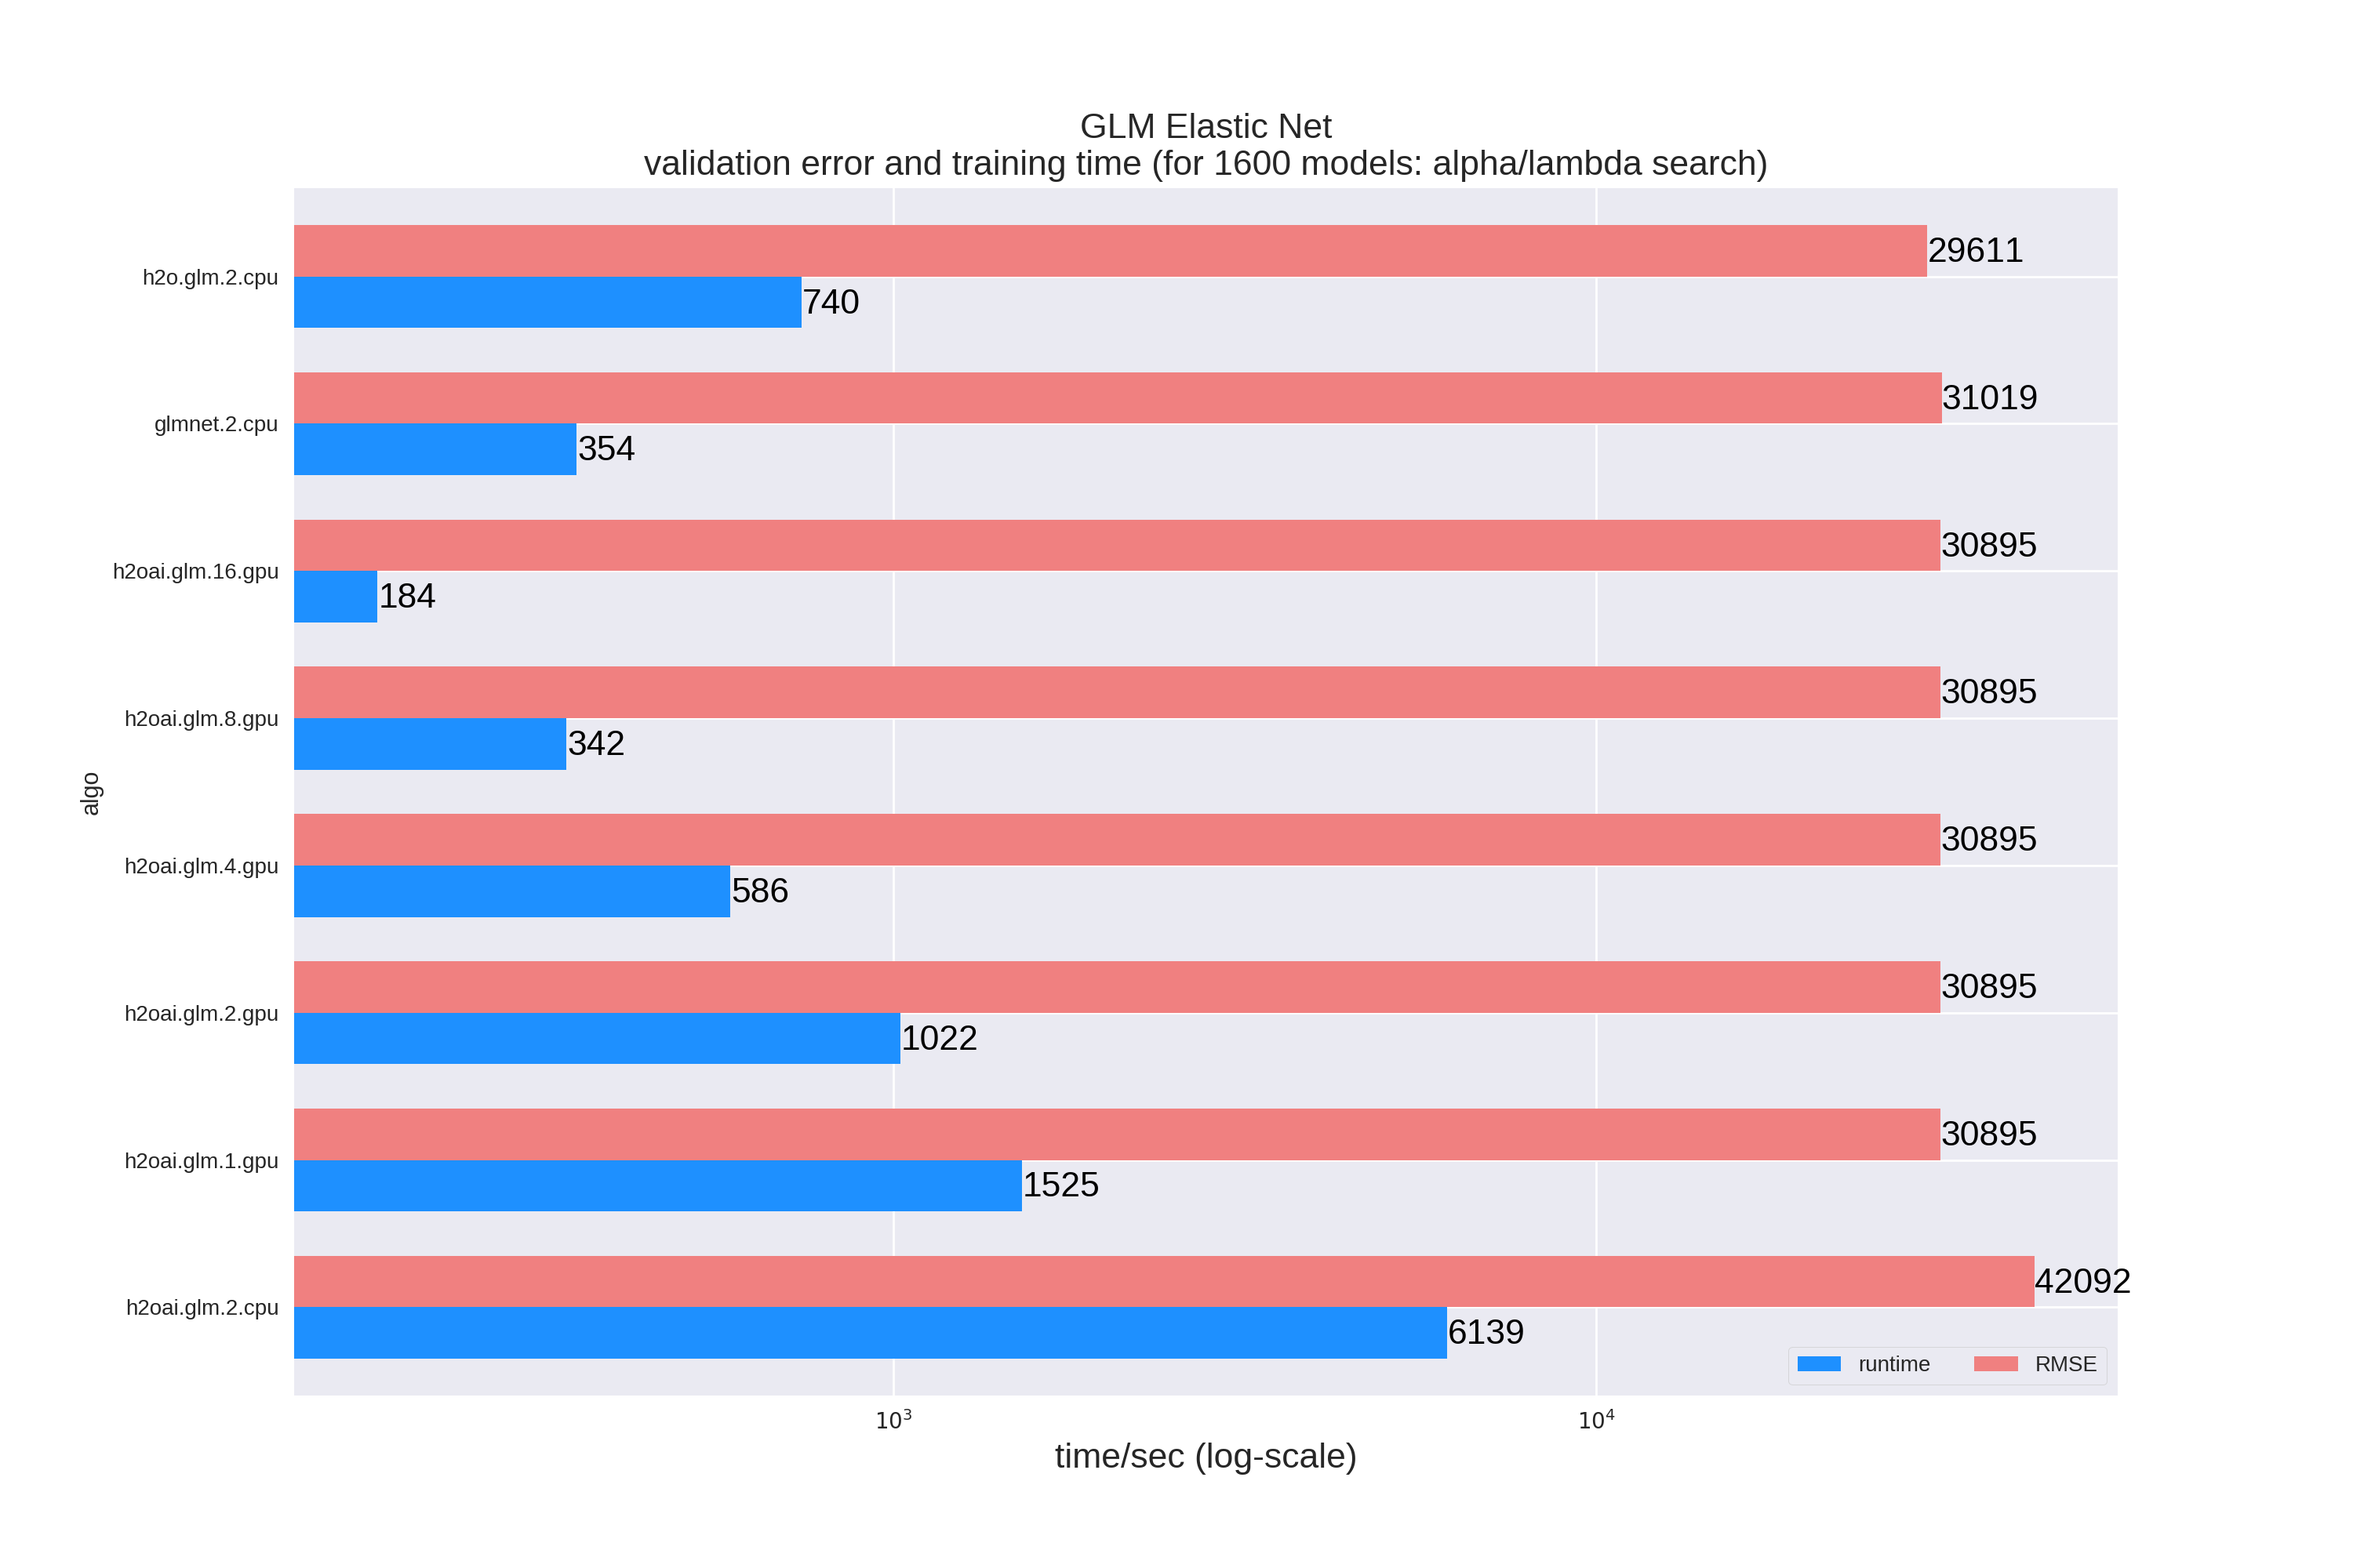
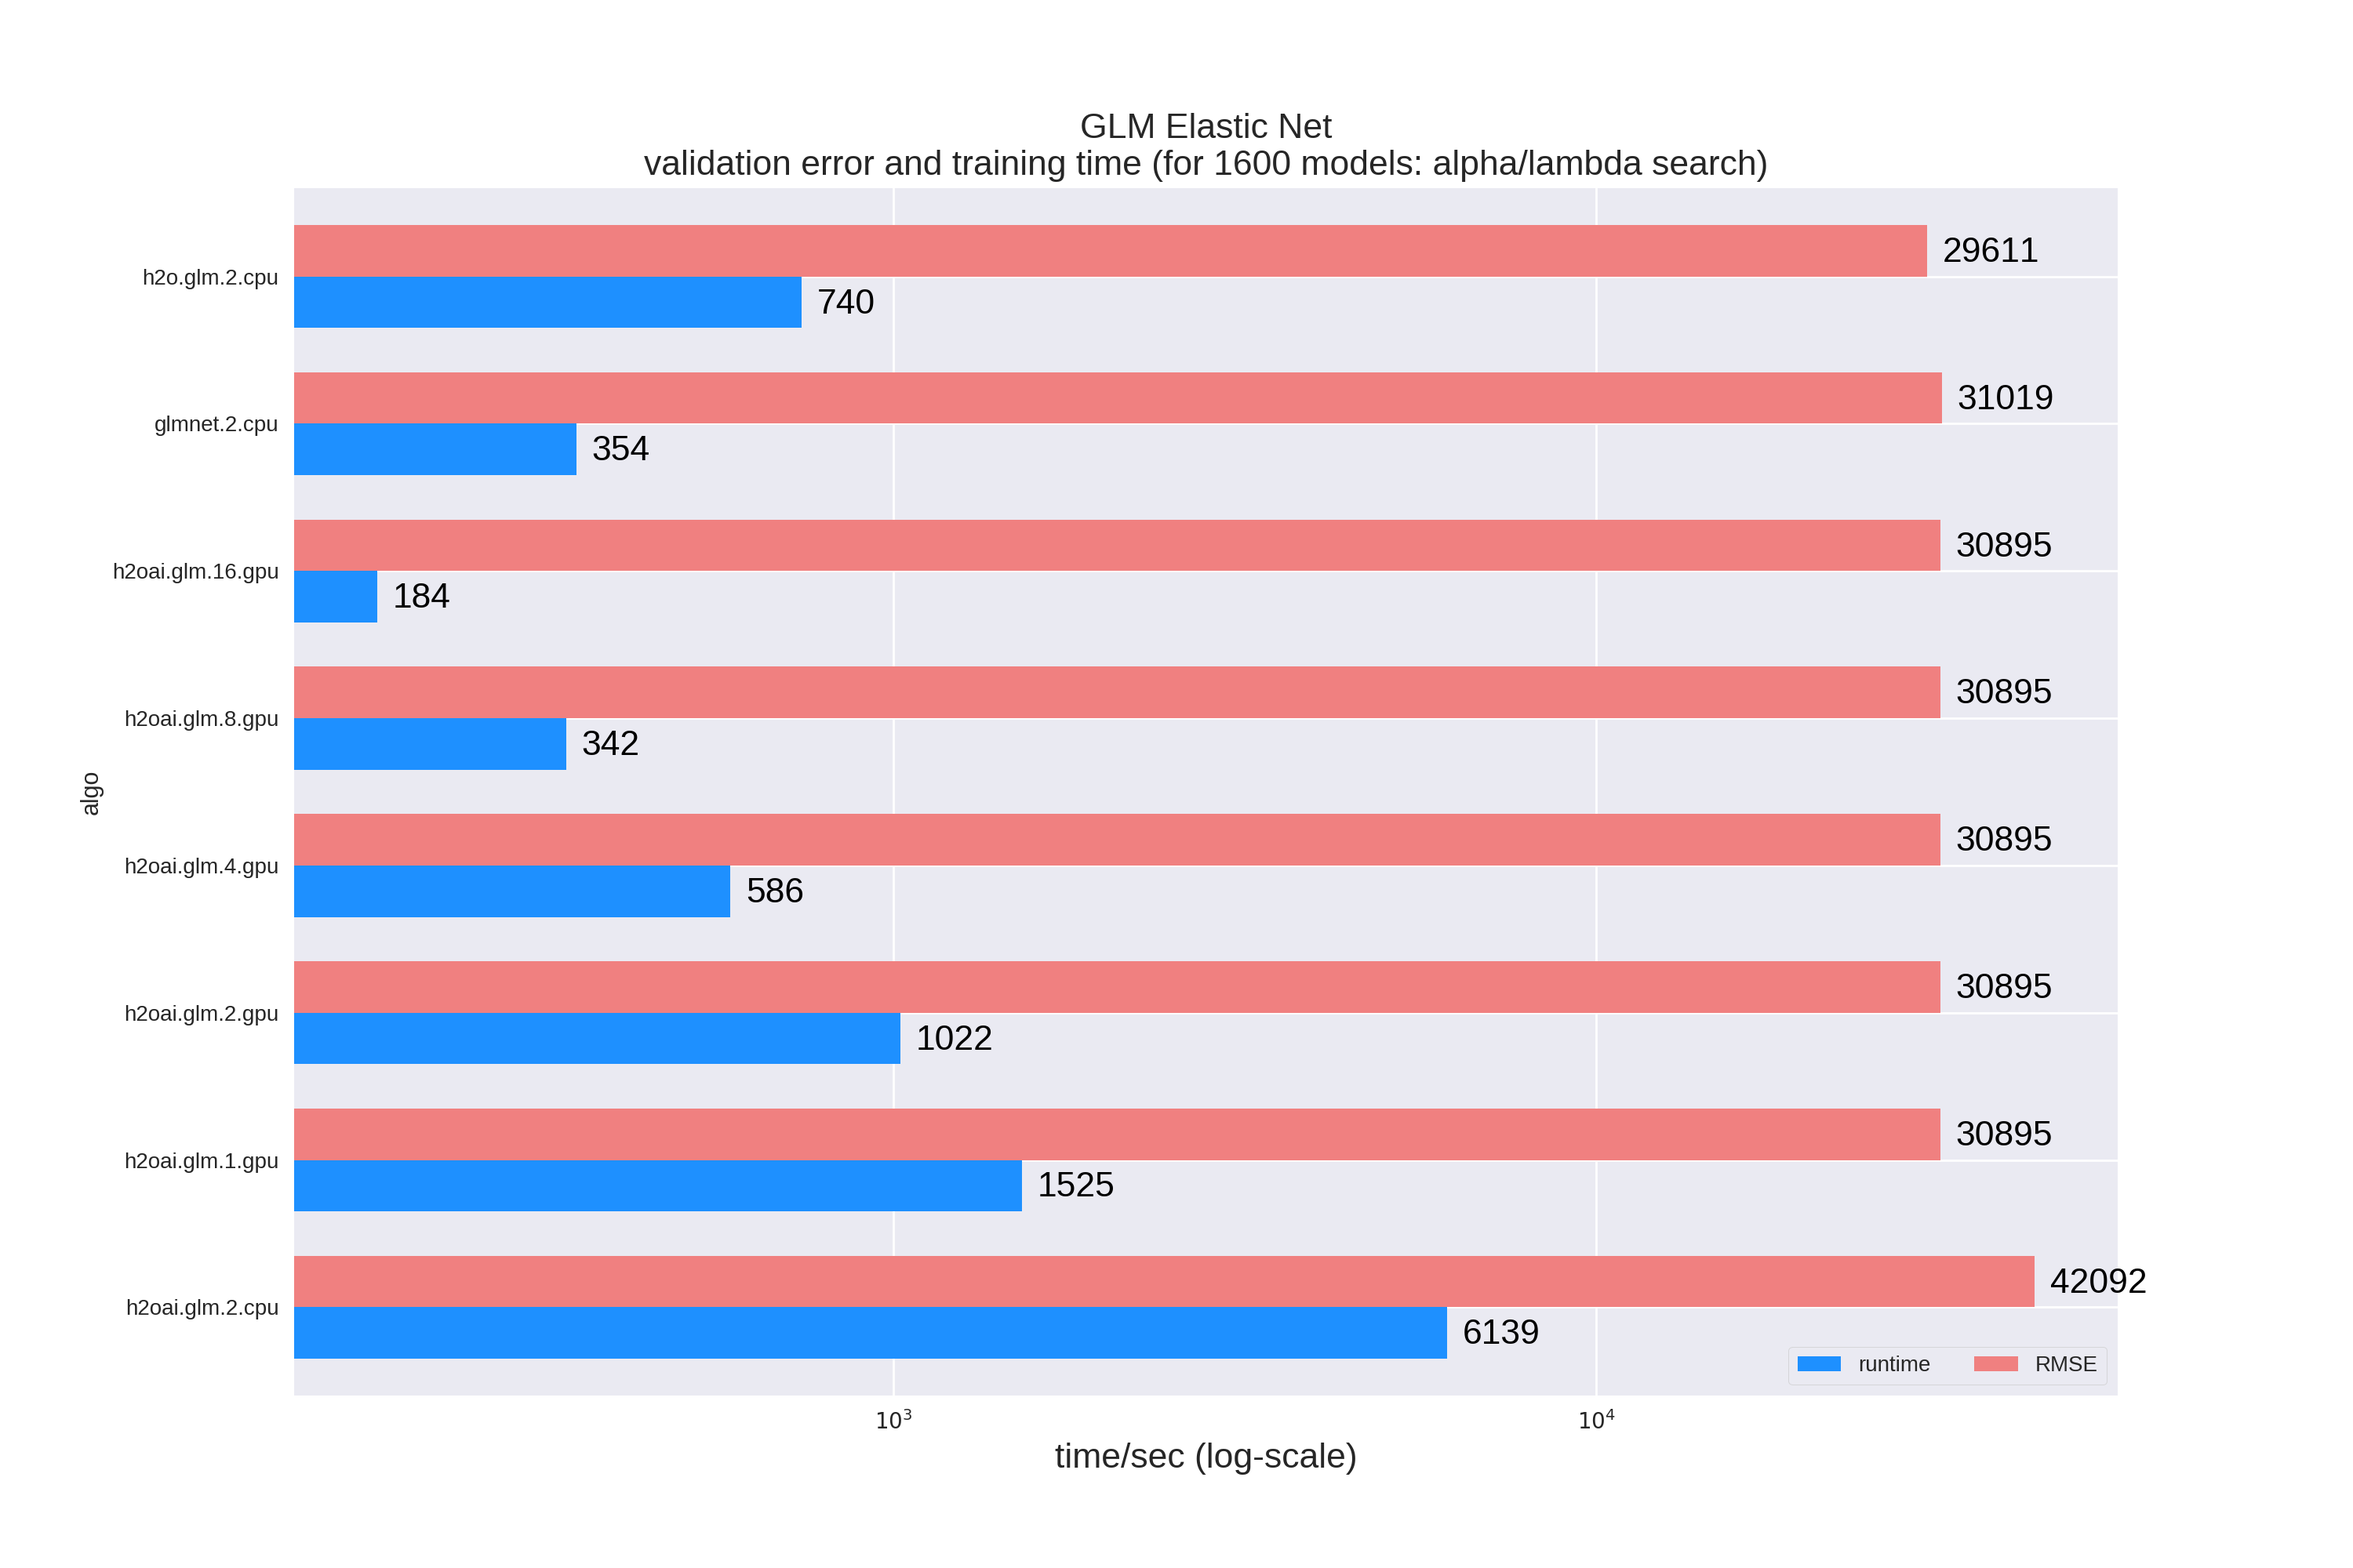
Cleanup label positioning.
Former-commit-id: cad584f8ebc03b99b86b758fc4f7f966f314d527
Former-commit-id: 608bb913ad180a23f8655b5a796db252826554ed

diff --git a/examples/cpp/plot.py b/examples/cpp/plot.py
@@ -23,7 +23,7 @@ for task in ["AlphaLambda", "Single"]:
   ax = mydf.plot.barh(figsize = (15,10), width = 0.7, logx = True, color = ['dodgerblue', 'lightcoral'])
 
   for i in ax.patches:
-      ax.text(i.get_width()+1, i.get_y()+.1, \
+      ax.text(np.exp(np.log(i.get_width())+0.05), i.get_y()+.1, \
               str(int((i.get_width()))), fontsize=16, color='k')
 
   ax.legend(ncol=3, loc="best", frameon=True)
